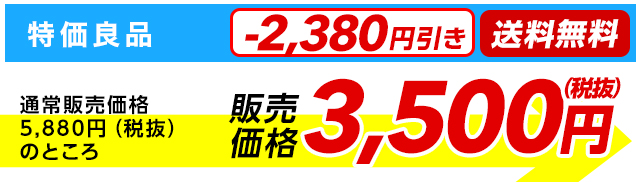
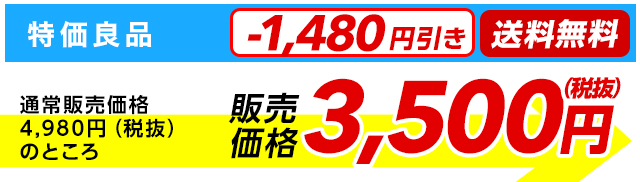
モッタイナイ市PC/SP初稿FIX

Changed region(s): [[0.375, 0.0549, 0.625, 0.3022], [0.1875, 0.6593, 0.2812, 0.7692], [0.0312, 0.6593, 0.125, 0.7692]]

diff --git a/used11/sp.html b/used11/sp.html
@@ -6,7 +6,7 @@
 <meta name="viewport" content="width=device-width, initial-scale=1, minimum-scale=1, maximum-scale=1, user-scalable=no">
 <link rel="canonical" href="https://www.rakuten.ne.jp/gold/shopjapan/cp/outlet/pc_b.html" />
 
-<title>MAX72%OFF！｜ショップジャパン楽天市場店</title>
+<title>MAX64%OFF！｜ショップジャパン楽天市場店</title>
 
 <!-- 楽天TOP解析タグ -->
 <script src="//assets.adobedtm.com/fde17e0362c40547334f4e041add368f158b4119/satelliteLib-e346cd8edc0ac640d3ce7c060b5a38f5169d4add.js"></script>
@@ -82,44 +82,42 @@ if (!(navigator.userAgent.indexOf('iPhone') > 0 || navigator.userAgent.indexOf('
 
 <div class="outlet_sp_wrap" id="top">
 
-<div class="main_bnr"><img src="img/sp/kv_1711_sp.jpg"></div><br>
-
+<div class="main_bnr"><img src="img/sp/kv64_sp.jpg"></div><br>
+<a href="https://coupon.rakuten.co.jp/getCoupon?getkey=WU9TUS00WlhCLUxNQVQtSlhMOA--&rt="><img src="img/sp/1000_coupon_sp.jpg" width="100%"></a><br><br>
 
 
 
 
 <ul class="item_lineup" style="margin:-10px auto;">
 
-
-<!-------------------------------- wds --------------------------------->
-<li id="wds" class="item_id">
-<img src="img/sp/30_sp.png" style="width:28%;position: absolute;z-index: 9;top:-2.2%;left:-1%;">
-<img src="img/sp/wds_ttl.jpg" style="width:92%;margin:4% auto 0;position: relative;">
+<!-------------------------------- bgv --------------------------------->
+<li id="bgv" class="item_id">
+<img src="img/sp/sai29_sp.png" class="baku" style="width:28%;position: absolute;z-index: 9;top:-2%;left:-1%;">
+<img src="img/sp/bgv_ttl.jpg" style="width:92%;margin:4% auto 0;position: relative;">
 <ul class="slider single-item" style="margin:0 0 10px;">
-<li><a href="img/sp/wds.jpg" rel="lightbox[wds-group]"><img src="img/sp/wds.jpg"></a></li>
-<li><a href="https://image.rakuten.co.jp/shopjapan/cabinet/wds/item/wds_s4_0120.jpg" rel="lightbox[wds-group]"><img src="https://image.rakuten.co.jp/shopjapan/cabinet/wds/item/wds_s4_0120.jpg" style="width: 69%;margin: 0 auto;"></a></li>
-<li><a href="https://image.rakuten.co.jp/shopjapan/cabinet/wds/item/wds_0831.jpg" rel="lightbox[wds-group]"><img src="https://image.rakuten.co.jp/shopjapan/cabinet/wds/item/wds_0831.jpg" style="width: 69%;margin: 0 auto;"></a></li>
+<li><a href="img/sp/bgv.jpg" rel="lightbox[bgv-group]"><img src="img/sp/bgv.jpg"></a></li>
+<li><a href="https://image.rakuten.co.jp/shopjapan/cabinet/bgv/s_cm1_1.jpg" rel="lightbox[bgv-group]"><img src="https://image.rakuten.co.jp/shopjapan/cabinet/bgv/s_cm1_1.jpg" style="width: 69%;margin: 0 auto;"></a></li>
+<li><a href="https://image.rakuten.co.jp/shopjapan/cabinet/bgv/s_cm2_1.jpg" rel="lightbox[bgv-group]"><img src="https://image.rakuten.co.jp/shopjapan/cabinet/bgv/s_cm2_1.jpg" style="width: 69%;margin: 0 auto;"></a></li>
 </ul>
 
-<img src="img/sp/wds_s_sp.jpg" style="width:92%;margin:0 auto;">
+<img src="img/sp/bgv_s_sp.jpg" style="width:92%;margin:0 auto;">
+<img src="img/sp/bgv_t_sp.jpg" style="width:92%;margin:0 auto;">
 <form target="_blank" method="post" action="https://t.order.step.rakuten.co.jp/rms/mall/basket/vc">
-<select name="inventory_id" class="select_btn">
-<option value="8864">ライムグリーン</option>
-<option value="8865">ピンク</option>
-<option value="8864">ライムグリーン×ホワイト</option>
-<option value="8865">アクアブルー</option>
+<select name="item_id" class="select_btn">
+<option value="10003955">新品同様</option>
+<option value="10003956">特価良品</option>
 </select>
 <input type="text" name="units" class="matome_box" size="4" value="1" style="display:none">
 <input type="image" src="https://image.rakuten.co.jp/shopjapan/cabinet/share/outlet/1col_cart_btn.jpg" name="button1" style="width:90%;margin:0 auto;">
 <input type="hidden" name="__event" value="ES01_003_001">
 <input type="hidden" name="shop_bid" value="199614">
-<input type="hidden" name="item_id" value="10003922">
+<input type="hidden" name="item_id" value="10003955">
 <input type="hidden" name="inventory_flag" value="1">
 </form>
 
-<div class="info"><a href="#" class="modal-wds sp_btn">商品内容はこちら</a></div>
+<div class="info"><a href="#" class="modal-bgv sp_btn">商品内容はこちら</a></div>
 </li>
-<!-------------------------------- wds --------------------------------->
+<!-------------------------------- bgv --------------------------------->
 
 <!-------------------------------- sim --------------------------------->
 <li id="sim" class="item_id">
@@ -143,7 +141,7 @@ if (!(navigator.userAgent.indexOf('iPhone') > 0 || navigator.userAgent.indexOf('
 <input type="image" src="https://image.rakuten.co.jp/shopjapan/cabinet/share/outlet/1col_cart_btn.jpg" name="button1" style="width:90%;margin:0 auto;">
 <input type="hidden" name="__event" value="ES01_003_001">
 <input type="hidden" name="shop_bid" value="199614">
-<input type="hidden" name="item_id" value="10003902">
+<input type="hidden" name="item_id" value="10003923">
 <input type="hidden" name="inventory_flag" value="1">
 </form>
 
@@ -165,14 +163,14 @@ if (!(navigator.userAgent.indexOf('iPhone') > 0 || navigator.userAgent.indexOf('
 <img src="img/sp/mgt_t_sp.jpg" style="width:92%;margin:0 auto;">
 <form target="_blank" method="post" action="https://t.order.step.rakuten.co.jp/rms/mall/basket/vc">
 <select name="item_id" class="select_btn">
-<option value="10003923">新品同様</option>
-<option value="10003924">特価良品</option>
+<option value="10003953">新品同様</option>
+<option value="10003954">特価良品</option>
 </select>
 <input type="text" name="units" class="matome_box" size="4" value="1" style="display:none">
 <input type="image" src="https://image.rakuten.co.jp/shopjapan/cabinet/share/outlet/1col_cart_btn.jpg" name="button1" style="width:90%;margin:0 auto;">
 <input type="hidden" name="__event" value="ES01_003_001">
 <input type="hidden" name="shop_bid" value="199614">
-<input type="hidden" name="item_id" value="10003902">
+<input type="hidden" name="item_id" value="10003953">
 <input type="hidden" name="inventory_flag" value="1">
 </form>
 
@@ -180,35 +178,6 @@ if (!(navigator.userAgent.indexOf('iPhone') > 0 || navigator.userAgent.indexOf('
 </li>
 <!-------------------------------- mgt --------------------------------->
 
-
-<!-------------------------------- bgv --------------------------------->
-<li id="bgv" class="item_id">
-<img src="img/sp/sai40_sp.png" class="baku" style="width:28%;position: absolute;z-index: 9;top:-2%;left:-1%;">
-<img src="img/sp/bgv_ttl.jpg" style="width:92%;margin:4% auto 0;position: relative;">
-<ul class="slider single-item" style="margin:0 0 10px;">
-<li><a href="img/sp/bgv.jpg" rel="lightbox[bgv-group]"><img src="img/sp/bgv.jpg"></a></li>
-<li><a href="https://image.rakuten.co.jp/shopjapan/cabinet/bgv/s_cm1_1.jpg" rel="lightbox[bgv-group]"><img src="https://image.rakuten.co.jp/shopjapan/cabinet/bgv/s_cm1_1.jpg" style="width: 69%;margin: 0 auto;"></a></li>
-<li><a href="https://image.rakuten.co.jp/shopjapan/cabinet/bgv/s_cm2_1.jpg" rel="lightbox[bgv-group]"><img src="https://image.rakuten.co.jp/shopjapan/cabinet/bgv/s_cm2_1.jpg" style="width: 69%;margin: 0 auto;"></a></li>
-</ul>
-
-<img src="img/sp/bgv_s_sp.jpg" style="width:92%;margin:0 auto;">
-<img src="img/sp/bgv_t_sp.jpg" style="width:92%;margin:0 auto;">
-<form target="_blank" method="post" action="https://t.order.step.rakuten.co.jp/rms/mall/basket/vc">
-<select name="item_id" class="select_btn">
-<option value="10003923">新品同様</option>
-<option value="10003924">特価良品</option>
-</select>
-<input type="text" name="units" class="matome_box" size="4" value="1" style="display:none">
-<input type="image" src="https://image.rakuten.co.jp/shopjapan/cabinet/share/outlet/1col_cart_btn.jpg" name="button1" style="width:90%;margin:0 auto;">
-<input type="hidden" name="__event" value="ES01_003_001">
-<input type="hidden" name="shop_bid" value="199614">
-<input type="hidden" name="item_id" value="10003902">
-<input type="hidden" name="inventory_flag" value="1">
-</form>
-
-<div class="info"><a href="#" class="modal-bgv sp_btn">商品内容はこちら</a></div>
-</li>
-<!-------------------------------- bgv --------------------------------->
 
 <!-------------------------------- nice --------------------------------->
 <li id="nice" class="item_id">
@@ -237,6 +206,35 @@ if (!(navigator.userAgent.indexOf('iPhone') > 0 || navigator.userAgent.indexOf('
 </li>
 <!-------------------------------- nice --------------------------------->
 
+<!-------------------------------- crf --------------------------------->
+<li id="crf" class="item_id">
+<img src="img/sp/sai44_sp.png" class="baku" style="width:28%;position: absolute;z-index: 9;top:-2%;left:-1%;">
+<img src="img/sp/crf_ttl.jpg" style="width:92%;margin:4% auto 0;">
+<ul class="slider single-item" style="margin:0 0 10px;">
+<li><a href="img/sp/crf.jpg" rel="lightbox[crf-group]"><img src="img/sp/crf.jpg"></a></li>
+<li><a href="https://image.rakuten.co.jp/shopjapan/cabinet/crf/item/crf_4.jpg" rel="lightbox[crf-group]"><img src="https://image.rakuten.co.jp/shopjapan/cabinet/crf/item/crf_4.jpg" style="width: 69%;margin: 0 auto;"></a></li>
+<li><a href="https://image.rakuten.co.jp/shopjapan/cabinet/crf/item/frynb_0201_02.jpg" rel="lightbox[crf-group]"><img src="https://image.rakuten.co.jp/shopjapan/cabinet/crf/item/frynb_0201_02.jpg" style="width: 69%;margin: 0 auto;"></a></li>
+</ul>
+
+<img src="img/sp/crf_s_sp.jpg" style="width:92%;margin:0 auto;">
+<img src="img/sp/crf_t_sp.jpg" style="width:92%;margin:0 auto;">
+<form target="_blank" method="post" action="https://t.order.step.rakuten.co.jp/rms/mall/basket/vc">
+<select name="item_id" class="select_btn">
+<option value="10003960">新品同様</option>
+<option value="10003961">特価良品</option>
+</select>
+<input type="text" name="units" class="matome_box" size="4" value="1" style="display:none">
+<input type="image" src="https://image.rakuten.co.jp/shopjapan/cabinet/share/outlet/1col_cart_btn.jpg" name="button1" style="width:90%;margin:0 auto;">
+<input type="hidden" name="__event" value="ES01_003_001">
+<input type="hidden" name="shop_bid" value="199614">
+<input type="hidden" name="item_id" value="10003960">
+<input type="hidden" name="inventory_flag" value="1">
+</form>
+
+<div class="info"><a href="#" class="modal-crf sp_btn">商品内容はこちら</a></div>
+</li>
+<!-------------------------------- crf --------------------------------->
+
 <!-------------------------------- sfs --------------------------------->
 <li id="sfs" class="item_id">
 <img src="img/sp/sai47_sp.png" class="baku" style="width:28%;position: absolute;z-index: 9;top:-2.2%;left:-1%;">
@@ -251,14 +249,14 @@ if (!(navigator.userAgent.indexOf('iPhone') > 0 || navigator.userAgent.indexOf('
 <img src="img/sp/sfs_t_sp.jpg" style="width:92%;margin:0 auto;">
 <form target="_blank" method="post" action="https://t.order.step.rakuten.co.jp/rms/mall/basket/vc">
 <select name="item_id" class="select_btn">
-<option value="10003923">新品同様</option>
-<option value="10003924">特価良品</option>
+<option value="10003957">新品同様</option>
+<option value="10003958">特価良品</option>
 </select>
 <input type="text" name="units" class="matome_box" size="4" value="1" style="display:none">
 <input type="image" src="https://image.rakuten.co.jp/shopjapan/cabinet/share/outlet/1col_cart_btn.jpg" name="button1" style="width:90%;margin:0 auto;">
 <input type="hidden" name="__event" value="ES01_003_001">
 <input type="hidden" name="shop_bid" value="199614">
-<input type="hidden" name="item_id" value="10003902">
+<input type="hidden" name="item_id" value="10003957">
 <input type="hidden" name="inventory_flag" value="1">
 </form>
 
@@ -291,7 +289,7 @@ if (!(navigator.userAgent.indexOf('iPhone') > 0 || navigator.userAgent.indexOf('
 <input type="image" src="https://image.rakuten.co.jp/shopjapan/cabinet/share/outlet/1col_cart_btn.jpg" name="button1" style="width:90%;margin:0 auto;">
 <input type="hidden" name="__event" value="ES01_003_001">
 <input type="hidden" name="shop_bid" value="199614">
-<input type="hidden" name="item_id" value="10003902">
+<input type="hidden" name="item_id" value="10003929">
 <input type="hidden" name="inventory_flag" value="1">
 </form>
 
@@ -322,13 +320,14 @@ if (!(navigator.userAgent.indexOf('iPhone') > 0 || navigator.userAgent.indexOf('
 <input type="image" src="https://image.rakuten.co.jp/shopjapan/cabinet/share/outlet/1col_cart_btn.jpg" name="button1" style="width:90%;margin:0 auto;">
 <input type="hidden" name="__event" value="ES01_003_001">
 <input type="hidden" name="shop_bid" value="199614">
-<input type="hidden" name="item_id" value="10003902">
+<input type="hidden" name="item_id" value="10003925">
 <input type="hidden" name="inventory_flag" value="1">
 </form>
 
 <div class="info"><a href="#" class="modal-rah sp_btn">商品内容はこちら</a></div>
 </li>
 <!-------------------------------- rah --------------------------------->
+
 
 <!-------------------------------- ngw --------------------------------->
 <li id="ngw" class="item_id">
@@ -348,21 +347,53 @@ if (!(navigator.userAgent.indexOf('iPhone') > 0 || navigator.userAgent.indexOf('
 <img src="img/sp/ngw_t_sp.jpg" style="width:92%;margin:0 auto;">
 <form target="_blank" method="post" action="https://t.order.step.rakuten.co.jp/rms/mall/basket/vc">
 <select name="inventory_id" class="select_btn">
-<option value="8864">ピンク</option>
-<option value="8865">ブラウン</option>
+<option value="8961">ピンク</option>
+<option value="8962">ブラウン</option>
 
 </select>
 <input type="text" name="units" class="matome_box" size="4" value="1" style="display:none">
 <input type="image" src="https://image.rakuten.co.jp/shopjapan/cabinet/share/outlet/1col_cart_btn.jpg" name="button1" style="width:90%;margin:0 auto;">
 <input type="hidden" name="__event" value="ES01_003_001">
 <input type="hidden" name="shop_bid" value="199614">
-<input type="hidden" name="item_id" value="10003922">
+<input type="hidden" name="item_id" value="10003928">
 <input type="hidden" name="inventory_flag" value="1">
 </form>
 
 <div class="info"><a href="#" class="modal-ngw sp_btn">商品内容はこちら</a></div>
 </li>
 <!-------------------------------- ngw --------------------------------->
+
+<!-------------------------------- wds --------------------------------->
+<li id="wds" class="item_id">
+<img src="img/sp/55_sp.png" style="width:28%;position: absolute;z-index: 9;top:-2.2%;left:-1%;">
+<img src="img/sp/wds_ttl.jpg" style="width:92%;margin:4% auto 0;position: relative;">
+<ul class="slider single-item" style="margin:0 0 10px;">
+<li><a href="img/sp/wds.jpg" rel="lightbox[wds-group]"><img src="img/sp/wds.jpg"></a></li>
+<li><a href="https://image.rakuten.co.jp/shopjapan/cabinet/wds/item/wds_s4_0120.jpg" rel="lightbox[wds-group]"><img src="https://image.rakuten.co.jp/shopjapan/cabinet/wds/item/wds_s4_0120.jpg" style="width: 69%;margin: 0 auto;"></a></li>
+<li><a href="https://image.rakuten.co.jp/shopjapan/cabinet/wds/item/wds_0831.jpg" rel="lightbox[wds-group]"><img src="https://image.rakuten.co.jp/shopjapan/cabinet/wds/item/wds_0831.jpg" style="width: 69%;margin: 0 auto;"></a></li>
+</ul>
+
+<img src="img/sp/wds_t_sp.jpg" style="width:92%;margin:0 auto;">
+<form target="_blank" method="post" action="https://t.order.step.rakuten.co.jp/rms/mall/basket/vc">
+<select name="inventory_id" class="select_btn">
+<option value="8957">ライムグリーン</option>
+<option value="8958">チェリーピンク</option>
+<option value="8959">ライムグリーン×ホワイト</option>
+<option value="8960">アクアブルー</option>
+</select>
+<input type="text" name="units" class="matome_box" size="4" value="1" style="display:none">
+<input type="image" src="https://image.rakuten.co.jp/shopjapan/cabinet/share/outlet/1col_cart_btn.jpg" name="button1" style="width:90%;margin:0 auto;">
+<input type="hidden" name="__event" value="ES01_003_001">
+<input type="hidden" name="shop_bid" value="199614">
+<input type="hidden" name="item_id" value="10003952">
+<input type="hidden" name="inventory_flag" value="1">
+</form>
+
+<div class="info"><a href="#" class="modal-wds sp_btn">商品内容はこちら</a></div>
+</li>
+<!-------------------------------- wds --------------------------------->
+
+
 
 <!-------------------------------- trsp2 --------------------------------->
 <li id="trsp2" class="item_id">
@@ -388,6 +419,8 @@ if (!(navigator.userAgent.indexOf('iPhone') > 0 || navigator.userAgent.indexOf('
 </li>
 <!-------------------------------- trsp2 --------------------------------->
 
+
+
 <!-------------------------------- crff --------------------------------->
 <li id="crff" class="item_id">
 <img src="img/sp/64_sp.png" class="baku" style="width:28%;position: absolute;z-index: 9;top:-2.2%;left:-1%;">
@@ -398,13 +431,13 @@ if (!(navigator.userAgent.indexOf('iPhone') > 0 || navigator.userAgent.indexOf('
 <li><a href="https://image.rakuten.co.jp/shopjapan/cabinet/crff/s1/crff_fp_s3_0721.jpg" rel="lightbox[crff-group]"><img src="https://image.rakuten.co.jp/shopjapan/cabinet/crff/s1/crff_fp_s3_0721.jpg" style="width: 69%;margin: 0 auto;"></a></li>
 </ul>
 
-<img src="img/sp/trs2_s_sp.jpg" style="width:92%;margin:0 auto;">
+<img src="img/sp/crff_s_sp.jpg" style="width:92%;margin:0 auto;">
 <form target="_blank" method="post" action="https://t.order.step.rakuten.co.jp/rms/mall/basket/vc">
 <input type="text" name="units" class="matome_box" size="4" value="1" style="display:none">
 <input type="image" src="https://image.rakuten.co.jp/shopjapan/cabinet/share/outlet/1col_cart_btn.jpg" name="button1" style="width:90%;margin:0 auto;">
 <input type="hidden" name="__event" value="ES01_003_001">
 <input type="hidden" name="shop_bid" value="199614">
-<input type="hidden" name="item_id" value="10003933">
+<input type="hidden" name="item_id" value="10003959">
 <input type="hidden" name="inventory_flag" value="1">
 </form>
 
@@ -412,34 +445,6 @@ if (!(navigator.userAgent.indexOf('iPhone') > 0 || navigator.userAgent.indexOf('
 </li>
 <!-------------------------------- crff --------------------------------->
 
-<!-------------------------------- crf --------------------------------->
-<li id="crf" class="item_id">
-<img src="img/sp/sai72_sp.png" class="baku" style="width:28%;position: absolute;z-index: 9;top:-2%;left:-1%;">
-<img src="img/sp/crf_ttl.jpg" style="width:92%;margin:4% auto 0;">
-<ul class="slider single-item" style="margin:0 0 10px;">
-<li><a href="img/sp/crf.jpg" rel="lightbox[crf-group]"><img src="img/sp/crf.jpg"></a></li>
-<li><a href="https://image.rakuten.co.jp/shopjapan/cabinet/crf/item/crf_4.jpg" rel="lightbox[crf-group]"><img src="https://image.rakuten.co.jp/shopjapan/cabinet/crf/item/crf_4.jpg" style="width: 69%;margin: 0 auto;"></a></li>
-<li><a href="https://image.rakuten.co.jp/shopjapan/cabinet/crf/item/frynb_0201_02.jpg" rel="lightbox[crf-group]"><img src="https://image.rakuten.co.jp/shopjapan/cabinet/crf/item/frynb_0201_02.jpg" style="width: 69%;margin: 0 auto;"></a></li>
-</ul>
-
-<img src="img/sp/crf_s_sp.jpg" style="width:92%;margin:0 auto;">
-<img src="img/sp/crf_t_sp.jpg" style="width:92%;margin:0 auto;">
-<form target="_blank" method="post" action="https://t.order.step.rakuten.co.jp/rms/mall/basket/vc">
-<select name="item_id" class="select_btn">
-<option value="10003925">新品同様</option>
-<option value="10003926">特価良品</option>
-</select>
-<input type="text" name="units" class="matome_box" size="4" value="1" style="display:none">
-<input type="image" src="https://image.rakuten.co.jp/shopjapan/cabinet/share/outlet/1col_cart_btn.jpg" name="button1" style="width:90%;margin:0 auto;">
-<input type="hidden" name="__event" value="ES01_003_001">
-<input type="hidden" name="shop_bid" value="199614">
-<input type="hidden" name="item_id" value="10003902">
-<input type="hidden" name="inventory_flag" value="1">
-</form>
-
-<div class="info"><a href="#" class="modal-crf sp_btn">商品内容はこちら</a></div>
-</li>
-<!-------------------------------- crf --------------------------------->
 
 
 </ul>
@@ -462,12 +467,14 @@ if (!(navigator.userAgent.indexOf('iPhone') > 0 || navigator.userAgent.indexOf('
 
 <div class="out_info_sp">
 <div class="about_outlet" id="out" style="width: 90%;margin: 0 auto 10px;">
-<img src="img/sp/sp_ttl.jpg" style="width: 100%;margin-bottom:10px;">
-<p style="font-weight: bold;color: #a70000;">中古品をお買上げの際は必ずコチラをご確認下さい。</p>
+<img src="img/sp/sp_ttl1.jpg" style="width: 100%;margin-bottom:10px;">
+<p style="font-weight: bold;color: #82b63a;text-align: center;"><big>中古品をお買上げの際は<br>必ずコチラをご確認下さい。</big></p>
 </div>
 
 <div class="about_trs">
-<p class="trs_ttl" style="background-color: #a70000;">中古品をお買い上げの際は<br>必ずこちらをご確認ください</p>
+<p class="trs_ttl" style="background-color: #82b63a;"><big>モッタイナイ市について</big><br>
+<small>モッタイナイ市の商品はお客様からの返品品を販売しております。</small>
+</p>
 <p><span>＜新品同様＞</span>
 弊社での目視検品により、配送用の段ボール(外装箱)を開封した未使用だと思われる商品。</p>
 <p><span>＜特価良品＞</span>

diff --git a/used11/css/sp_common.css b/used11/css/sp_common.css
@@ -84,7 +84,7 @@ body {
     border: 1px #ccc solid;
     list-style: none;
     background: #fff;
-    box-shadow:5px 5px 10px 0px #ccc;
+    /*box-shadow:5px 5px 10px 0px #ccc;*/
     position: relative;
     text-align: center;
 }
